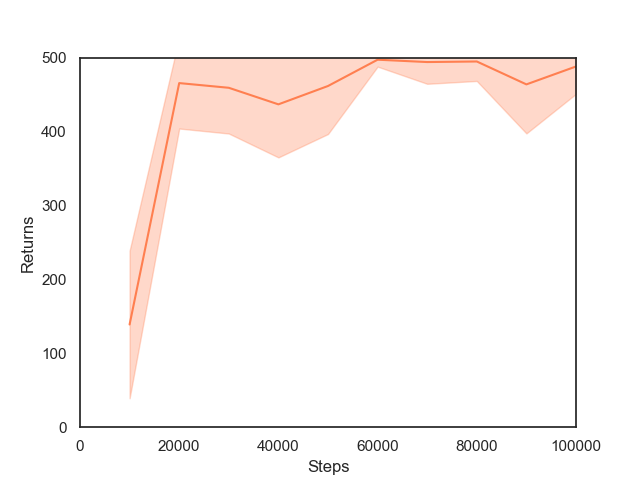
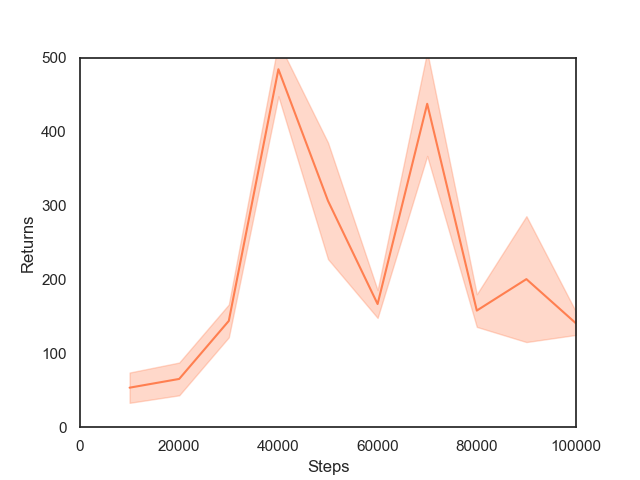
Add R1 grad reg for discriminators

Changed region(s): [[0.1875, 0.125, 0.9062, 0.8438]]

diff --git a/main.py b/main.py
@@ -23,7 +23,7 @@ parser.add_argument('--trace-decay', type=float, default=0.95, metavar='λ', hel
 parser.add_argument('--ppo-clip', type=float, default=0.2, metavar='ε', help='PPO clip ratio')
 parser.add_argument('--ppo-epochs', type=int, default=4, metavar='K', help='PPO epochs')
 parser.add_argument('--value-loss-coeff', type=float, default=1, metavar='c1', help='Value loss coefficient')
-parser.add_argument('--entropy-loss-coeff', type=float, default=0, metavar='c2', help='Entropy loss coefficient')
+parser.add_argument('--entropy-loss-coeff', type=float, default=0, metavar='c2', help='Entropy regularisation coefficient')
 parser.add_argument('--learning-rate', type=float, default=0.001, metavar='η', help='Learning rate')
 parser.add_argument('--batch-size', type=int, default=2048, metavar='B', help='Minibatch size')
 parser.add_argument('--max-grad-norm', type=float, default=1, metavar='N', help='Maximum gradient L2 norm')
@@ -32,9 +32,10 @@ parser.add_argument('--evaluation-episodes', type=int, default=50, metavar='EE',
 parser.add_argument('--save-trajectories', action='store_true', default=False, help='Store trajectories from agent after training')
 parser.add_argument('--imitation', type=str, default='', choices=['AIRL', 'BC', 'GAIL', 'GMMIL'], metavar='I', help='Imitation learning algorithm')
 parser.add_argument('--state-only', action='store_true', default=False, help='State-only imitation learning')
-parser.add_argument('--imitation-batch-size', type=int, default=128, metavar='IB', help='Imitation learning minibatch size')
 parser.add_argument('--imitation-epochs', type=int, default=5, metavar='IE', help='Imitation learning epochs')
-parser.add_argument('--imitation-replay-size', type=int, default=1, metavar='IRS', help='Imitation learning trajectory replay size')
+parser.add_argument('--imitation-batch-size', type=int, default=128, metavar='IB', help='Imitation learning minibatch size')
+parser.add_argument('--imitation-replay-size', type=int, default=4, metavar='IRS', help='Imitation learning trajectory replay size')
+parser.add_argument('--r1-reg-coeff', type=float, default=1, metavar='γ', help='R1 gradient regularisation coefficient')
 args = parser.parse_args()
 torch.manual_seed(args.seed)
 os.makedirs('results', exist_ok=True)
@@ -47,8 +48,7 @@ agent = ActorCritic(env.observation_space.shape[0], env.action_space.n, args.hid
 agent_optimiser = optim.RMSprop(agent.parameters(), lr=args.learning_rate)
 if args.imitation:
   # Set up expert trajectories dataset
-  expert_trajectories = torch.load('expert_trajectories.pth')
-  expert_trajectories = TransitionDataset(flatten_list_dicts(expert_trajectories))
+  expert_trajectories = TransitionDataset(flatten_list_dicts(torch.load('expert_trajectories.pth')))
   # Set up discriminator
   if args.imitation in ['AIRL', 'GAIL', 'GMMIL']:
     if args.imitation == 'AIRL':
@@ -94,13 +94,13 @@ for step in pbar:
         trajectories = []  # Clear the set of trajectories
 
         if args.imitation in ['AIRL', 'GAIL', 'GMMIL']:
-          # Train discriminator and infer rewards
+          # Train discriminator and predict rewards
           if args.imitation in ['AIRL', 'GAIL']:
             # Use a replay buffer of previous trajectories to prevent overfitting to current policy
             policy_trajectory_replay_buffer.append(policy_trajectories)
             policy_trajectory_replays = flatten_list_dicts(policy_trajectory_replay_buffer)
             for _ in tqdm(range(args.imitation_epochs), leave=False):
-              adversarial_imitation_update(args.imitation, agent, discriminator, expert_trajectories, TransitionDataset(policy_trajectory_replays), discriminator_optimiser, args.imitation_batch_size)
+              adversarial_imitation_update(args.imitation, agent, discriminator, expert_trajectories, TransitionDataset(policy_trajectory_replays), discriminator_optimiser, args.imitation_batch_size, args.r1_reg_coeff)
           # Predict rewards
           with torch.no_grad():
             if args.imitation == 'AIRL':
@@ -111,7 +111,7 @@ for step in pbar:
               policy_trajectories['rewards'] = discriminator.predict_reward(policy_trajectories['states'], policy_trajectories['actions'], expert_trajectories['states'], expert_trajectories['actions'])
         
         # Compute rewards-to-go R and generalised advantage estimates ψ based on the current value function V
-        compute_advantages(policy_trajectories, args.discount, args.trace_decay, agent(state)[1])
+        compute_advantages(policy_trajectories, agent(state)[1], args.discount, args.trace_decay)
         # Normalise advantages
         policy_trajectories['advantages'] = (policy_trajectories['advantages'] - policy_trajectories['advantages'].mean()) / (policy_trajectories['advantages'].std() + 1e-8)
 

diff --git a/training.py b/training.py
@@ -1,4 +1,5 @@
 import torch
+from torch import autograd
 from torch.nn import functional as F
 from torch.nn.utils import clip_grad_norm_
 from torch.utils.data import DataLoader, Dataset
@@ -25,7 +26,7 @@ class TransitionDataset(Dataset):
 
 
 # Computes and stores generalised advantage estimates ψ in the set of trajectories
-def compute_advantages(trajectories, discount, trace_decay, next_value):
+def compute_advantages(trajectories, next_value, discount, trace_decay):
   with torch.no_grad():  # Do not differentiate through advantage calculation
     reward_to_go, advantage = torch.tensor([0.]), torch.tensor([0.])
     trajectories['rewards_to_go'], trajectories['advantages'] = torch.empty_like(trajectories['rewards']), torch.empty_like(trajectories['rewards'])
@@ -39,7 +40,7 @@ def compute_advantages(trajectories, discount, trace_decay, next_value):
 
 
 # Performs one PPO update (assumes trajectories for first epoch are attached to agent)
-def ppo_update(agent, trajectories, agent_optimiser, ppo_clip, epoch, value_loss_coeff=1, entropy_loss_coeff=1):
+def ppo_update(agent, trajectories, agent_optimiser, ppo_clip, epoch, value_loss_coeff=1, entropy_reg_coeff=1):
   # Recalculate outputs for subsequent iterations
   if epoch > 0:
     policy, trajectories['values'] = agent(trajectories['states'])
@@ -48,10 +49,10 @@ def ppo_update(agent, trajectories, agent_optimiser, ppo_clip, epoch, value_loss
   policy_ratio = (trajectories['log_prob_actions'] - trajectories['old_log_prob_actions']).exp()
   policy_loss = -torch.min(policy_ratio * trajectories['advantages'], torch.clamp(policy_ratio, min=1 - ppo_clip, max=1 + ppo_clip) * trajectories['advantages']).mean()  # Update the policy by maximising the clipped PPO objective
   value_loss = F.mse_loss(trajectories['values'], trajectories['rewards_to_go'])  # Fit value function by regression on mean squared error
-  entropy_loss = -trajectories['entropies'].mean()  # Add entropy regularisation
+  entropy_reg = -trajectories['entropies'].mean()  # Add entropy regularisation
   
   agent_optimiser.zero_grad()
-  (policy_loss + value_loss_coeff * value_loss + entropy_loss_coeff * entropy_loss).backward()
+  (policy_loss + value_loss_coeff * value_loss + entropy_reg_coeff * entropy_reg).backward()
   clip_grad_norm_(agent.parameters(), 1)  # Clamp norm of gradients
   agent_optimiser.step()
 
@@ -70,7 +71,7 @@ def behavioural_cloning_update(agent, expert_trajectories, agent_optimiser, batc
 
 
 # Performs an adversarial imitation learning update
-def adversarial_imitation_update(algorithm, agent, discriminator, expert_trajectories, policy_trajectories, discriminator_optimiser, batch_size):
+def adversarial_imitation_update(algorithm, agent, discriminator, expert_trajectories, policy_trajectories, discriminator_optimiser, batch_size, r1_reg_coeff=1):
   expert_dataloader = DataLoader(expert_trajectories, batch_size=batch_size, shuffle=True, drop_last=True)
   policy_dataloader = DataLoader(policy_trajectories, batch_size=batch_size, shuffle=True, drop_last=True)
 
@@ -91,6 +92,10 @@ def adversarial_imitation_update(algorithm, agent, discriminator, expert_traject
     # Binary logistic regression
     discriminator_optimiser.zero_grad()
     expert_loss = F.binary_cross_entropy(D_expert, torch.ones_like(D_expert))  # Loss on "real" (expert) data
+    autograd.backward(expert_loss, create_graph=True)
+    r1_reg = 0
+    for param in discriminator.parameters():
+      r1_reg += param.grad.norm().mean()  # R1 gradient penalty
     policy_loss = F.binary_cross_entropy(D_policy, torch.zeros_like(D_policy))  # Loss on "fake" (policy) data
-    (expert_loss + policy_loss).backward()
+    (policy_loss + r1_reg_coeff * r1_reg).backward()
     discriminator_optimiser.step()

diff --git a/utils.py b/utils.py
@@ -11,7 +11,7 @@ sns.set(style='white')
 
 # Flattens a list of dicts with torch Tensors
 def flatten_list_dicts(list_dicts):
-  return {k: torch.cat([d[k] for d in list_dicts], dim=0) for k in list_dicts[0].keys()}
+  return {k: torch.cat([d[k] for d in list_dicts], dim=0) for k in list_dicts[-1].keys()}
 
 
 # Makes a lineplot with scalar x and statistics of vector y

diff --git a/README.md b/README.md
@@ -13,7 +13,7 @@ Imitation learning algorithms (with PPO [[1]](#references)):
 - ~~RED [[8]](#references)~~
 
 ```
-python main.py --imitation [AIRL|BC|GAIL]
+python main.py --imitation [AIRL|BC|GAIL|GMMIL]
 ```
 
 Results
@@ -60,6 +60,12 @@ Train | Test
 Train | Test
 :----:|:---:
 ![gmmil_sa_train_returns](figures/gmmil_sa_train_returns.png) | ![gmmil_sa_test_returns](figures/gmmil_sa_test_returns.png)
+
+**GMMIL(s)**
+
+Train | Test
+:----:|:---:
+![gmmil_s_train_returns](figures/gmmil_s_train_returns.png) | ![gmmil_s_test_returns](figures/gmmil_s_test_returns.png)
 
 Acknowledgements
 ----------------
